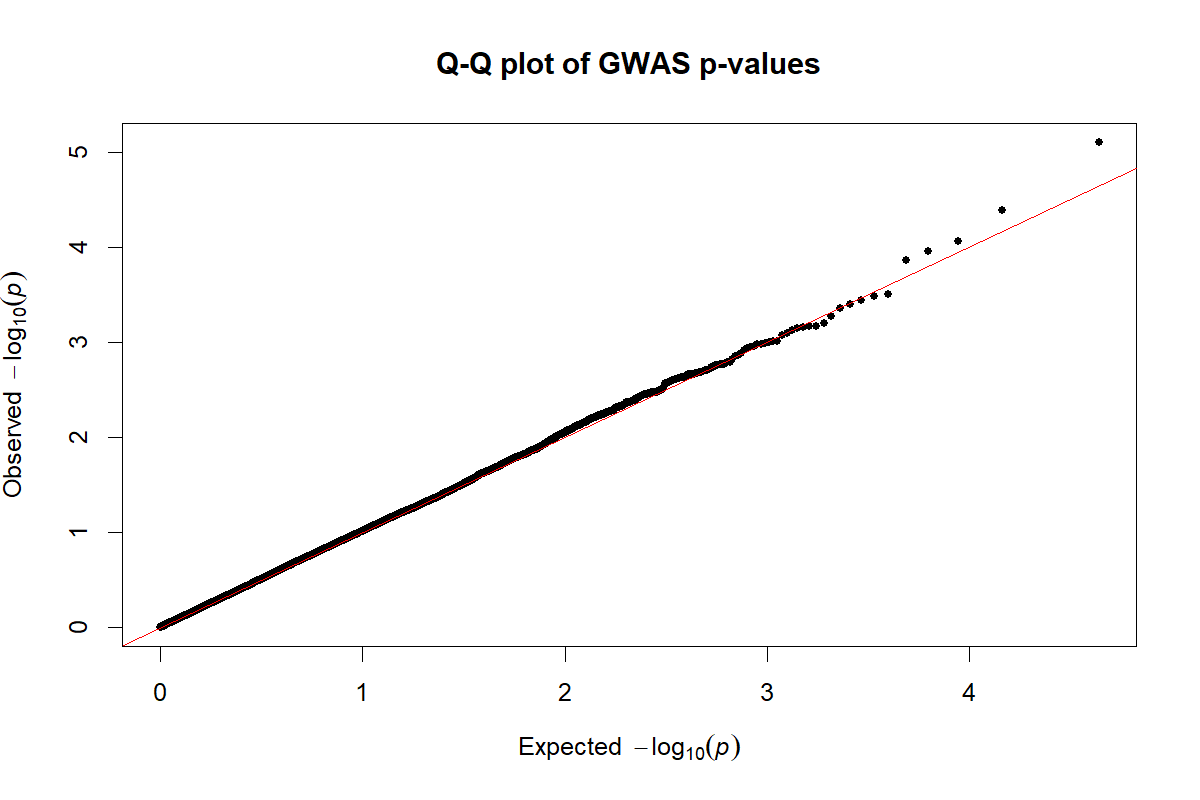
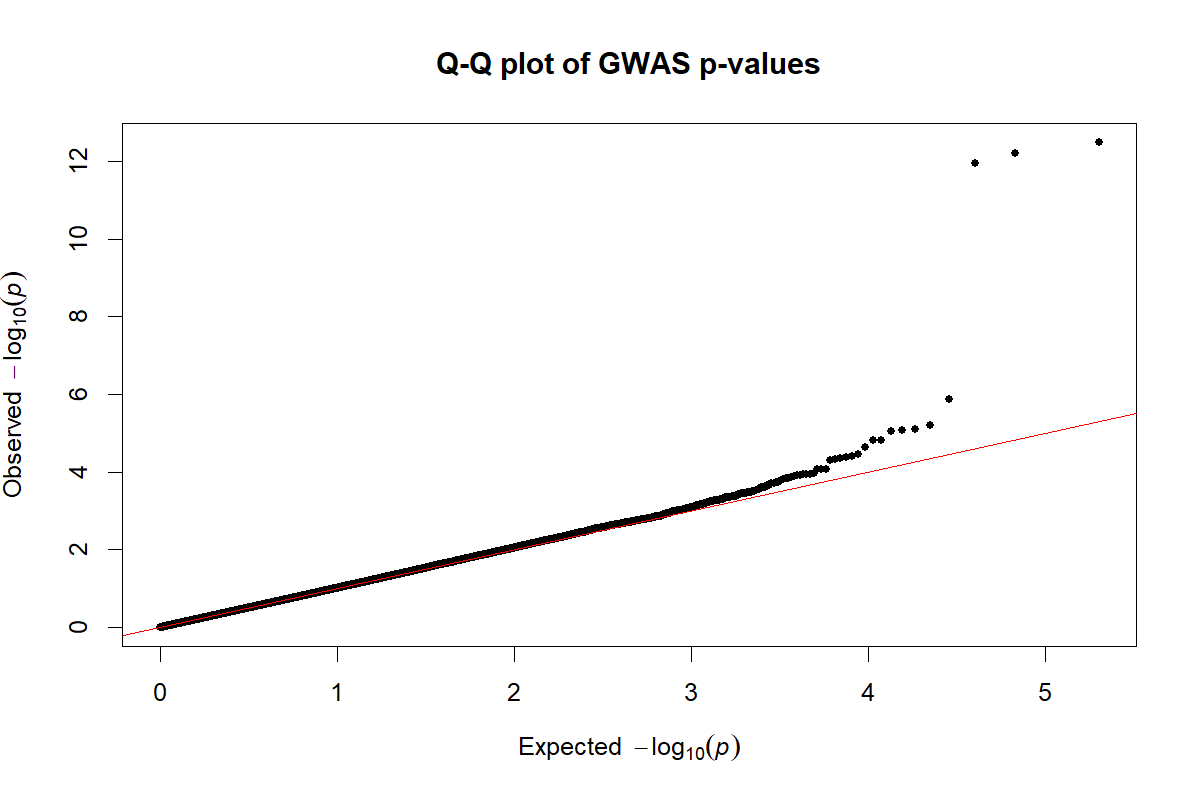
Updated *.qmd and *.html to accommodate the proper PLINK files for the GWAS analysis

diff --git a/02_activities/assignments/assignment_2.html b/02_activities/assignments/assignment_2.html
@@ -134,7 +134,7 @@ Options in effect:
   --mind 0.1
   --out ./02_activities/data/gwa.qc.A2
 
-Start time: Tue Mar 31 15:42:57 2026
+Start time: Wed Apr 01 21:31:01 2026
 15897 MiB RAM detected; reserving 7948 MiB for main workspace.
 Using up to 14 threads (change this with --threads).
 4000 samples (2000 females, 2000 males; 4000 founders) loaded from
@@ -155,7 +155,7 @@ Calculating allele frequencies... 0%21%42%64%85%done.
 Writing ./02_activities/data/gwa.qc.A2.fam ... done.
 Writing ./02_activities/data/gwa.qc.A2.bim ... done.
 Writing ./02_activities/data/gwa.qc.A2.bed ... 0%21%43%65%87%done.
-End time: Tue Mar 31 15:42:58 2026</code></pre>
+End time: Wed Apr 01 21:31:02 2026</code></pre>
 </div>
 </div>
 </section>
@@ -177,7 +177,7 @@ Options in effect:
   --indep-pairwise 500 50 0.05
   --out ./02_activities/data/gwa.qc.A2
 
-Start time: Tue Mar 31 15:42:58 2026
+Start time: Wed Apr 01 21:31:02 2026
 15897 MiB RAM detected; reserving 7948 MiB for main workspace.
 Using up to 14 threads (change this with --threads).
 4000 samples (2000 females, 2000 males; 4000 founders) loaded from
@@ -189,7 +189,7 @@ Calculating allele frequencies... 0%64%done.
 Writing...
 Variant lists written to ./02_activities/data/gwa.qc.A2.prune.in and
 ./02_activities/data/gwa.qc.A2.prune.out .
-End time: Tue Mar 31 15:42:59 2026</code></pre>
+End time: Wed Apr 01 21:31:03 2026</code></pre>
 </div>
 </div>
 <p>#Keep only SNPs that pass QC</p>
@@ -205,7 +205,7 @@ Options in effect:
   --make-bed
   --out ./02_activities/data/gwa.qc.A2_pruned
 
-Start time: Tue Mar 31 15:42:59 2026
+Start time: Wed Apr 01 21:31:03 2026
 15897 MiB RAM detected; reserving 7948 MiB for main workspace.
 Using up to 14 threads (change this with --threads).
 4000 samples (2000 females, 2000 males; 4000 founders) loaded from
@@ -217,7 +217,7 @@ Using up to 14 threads (change this with --threads).
 Writing ./02_activities/data/gwa.qc.A2_pruned.fam ... done.
 Writing ./02_activities/data/gwa.qc.A2_pruned.bim ... done.
 Writing ./02_activities/data/gwa.qc.A2_pruned.bed ... 0%61%done.
-End time: Tue Mar 31 15:42:59 2026</code></pre>
+End time: Wed Apr 01 21:31:04 2026</code></pre>
 </div>
 </div>
 <ol start="2" type="i">
@@ -235,7 +235,7 @@ Options in effect:
   --king-cutoff 0.0884
   --out ./02_activities/data/gwa.qc.A2_pruned
 
-Start time: Tue Mar 31 15:43:00 2026
+Start time: Wed Apr 01 21:31:04 2026
 15897 MiB RAM detected; reserving 7948 MiB for main workspace.
 Using up to 14 threads (change this with --threads).
 4000 samples (2000 females, 2000 males; 4000 founders) loaded from
@@ -265,30 +265,30 @@ Using up to 14 threads (change this with --threads).
 --king-cutoff: Excluded sample IDs written to
 ./02_activities/data/gwa.qc.A2_pruned.king.cutoff.out.id , and 4000 remaining
 sample IDs written to ./02_activities/data/gwa.qc.A2_pruned.king.cutoff.in.id .
-End time: Tue Mar 31 15:43:01 2026</code></pre>
+End time: Wed Apr 01 21:31:06 2026</code></pre>
 </div>
 </div>
 <ol start="3" type="i">
 <li>Using the unrelated individual list from part (ii), create a dataset containing only unrelated individuals and name it <code>gwa.qc_unrelated.A2</code>.</li>
 </ol>
 <div class="cell">
-<div class="code-copy-outer-scaffold"><div class="sourceCode cell-code" id="cb12"><pre class="sourceCode bash code-with-copy"><code class="sourceCode bash"><span id="cb12-1"><a href="#cb12-1" aria-hidden="true" tabindex="-1"></a><span class="ex">plink2</span> <span class="at">--bfile</span> ./02_activities/data/gwa.qc.A2_pruned <span class="at">--keep</span> ./02_activities/data/gwa.qc.A2_pruned.king.cutoff.in.id <span class="at">--make-bed</span> <span class="at">--out</span> ./02_activities/data/gwa.qc_unrelated.A2</span></code></pre></div><button title="Copy to Clipboard" class="code-copy-button"><i class="bi"></i></button></div>
+<div class="code-copy-outer-scaffold"><div class="sourceCode cell-code" id="cb12"><pre class="sourceCode bash code-with-copy"><code class="sourceCode bash"><span id="cb12-1"><a href="#cb12-1" aria-hidden="true" tabindex="-1"></a><span class="ex">plink2</span> <span class="at">--bfile</span> ./02_activities/data/gwa.qc.A2 <span class="at">--keep</span> ./02_activities/data/gwa.qc.A2_pruned.king.cutoff.in.id <span class="at">--make-bed</span> <span class="at">--out</span> ./02_activities/data/gwa.qc_unrelated.A2</span></code></pre></div><button title="Copy to Clipboard" class="code-copy-button"><i class="bi"></i></button></div>
 <div class="cell-output cell-output-stdout">
 <pre><code>PLINK v2.0.0-a.7 64-bit (11 Mar 2026)               cog-genomics.org/plink/2.0/
 (C) 2005-2026 Shaun Purcell, Christopher Chang    GNU General Public License v3
 Logging to ./02_activities/data/gwa.qc_unrelated.A2.log.
 Options in effect:
-  --bfile ./02_activities/data/gwa.qc.A2_pruned
+  --bfile ./02_activities/data/gwa.qc.A2
   --keep ./02_activities/data/gwa.qc.A2_pruned.king.cutoff.in.id
   --make-bed
   --out ./02_activities/data/gwa.qc_unrelated.A2
 
-Start time: Tue Mar 31 15:43:01 2026
+Start time: Wed Apr 01 21:31:06 2026
 15897 MiB RAM detected; reserving 7948 MiB for main workspace.
 Using up to 14 threads (change this with --threads).
 4000 samples (2000 females, 2000 males; 4000 founders) loaded from
-./02_activities/data/gwa.qc.A2_pruned.fam.
-21914 variants loaded from ./02_activities/data/gwa.qc.A2_pruned.bim.
+./02_activities/data/gwa.qc.A2.fam.
+101083 variants loaded from ./02_activities/data/gwa.qc.A2.bim.
 1 quantitative phenotype loaded (4000 values).
 --keep: 4000 samples remaining.
 4000 samples (2000 females, 2000 males; 4000 founders) remaining after main
@@ -296,8 +296,8 @@ filters.
 4000 quantitative phenotype values remaining after main filters.
 Writing ./02_activities/data/gwa.qc_unrelated.A2.fam ... done.
 Writing ./02_activities/data/gwa.qc_unrelated.A2.bim ... done.
-Writing ./02_activities/data/gwa.qc_unrelated.A2.bed ... 0%done.
-End time: Tue Mar 31 15:43:02 2026</code></pre>
+Writing ./02_activities/data/gwa.qc_unrelated.A2.bed ... 0%64%done.
+End time: Wed Apr 01 21:31:06 2026</code></pre>
 </div>
 </div>
 </section>
@@ -320,19 +320,19 @@ Options in effect:
   --make-bed
   --out ./02_activities/data/gwa.qc_unrelated.A2_pruned
 
-Start time: Tue Mar 31 15:43:02 2026
+Start time: Wed Apr 01 21:31:07 2026
 15897 MiB RAM detected; reserving 7948 MiB for main workspace.
 Using up to 14 threads (change this with --threads).
 4000 samples (2000 females, 2000 males; 4000 founders) loaded from
 ./02_activities/data/gwa.qc_unrelated.A2.fam.
-21914 variants loaded from ./02_activities/data/gwa.qc_unrelated.A2.bim.
+101083 variants loaded from ./02_activities/data/gwa.qc_unrelated.A2.bim.
 1 quantitative phenotype loaded (4000 values).
 --extract: 21914 variants remaining.
 21914 variants remaining after main filters.
 Writing ./02_activities/data/gwa.qc_unrelated.A2_pruned.fam ... done.
 Writing ./02_activities/data/gwa.qc_unrelated.A2_pruned.bim ... done.
-Writing ./02_activities/data/gwa.qc_unrelated.A2_pruned.bed ... 0%done.
-End time: Tue Mar 31 15:43:02 2026</code></pre>
+Writing ./02_activities/data/gwa.qc_unrelated.A2_pruned.bed ... 0%61%done.
+End time: Wed Apr 01 21:31:07 2026</code></pre>
 </div>
 </div>
 <p>#Run PCA</p>
@@ -347,7 +347,7 @@ Options in effect:
   --out ./02_activities/data/gwa.qc.A2_unrel_PCA
   --pca 20
 
-Start time: Tue Mar 31 15:43:03 2026
+Start time: Wed Apr 01 21:31:08 2026
 15897 MiB RAM detected; reserving 7948 MiB for main workspace.
 Using up to 14 threads (change this with --threads).
 4000 samples (2000 females, 2000 males; 4000 founders) loaded from
@@ -361,7 +361,7 @@ Extracting eigenvalues and eigenvectors... done.
 --pca: Eigenvectors written to
 ./02_activities/data/gwa.qc.A2_unrel_PCA.eigenvec , and eigenvalues written to
 ./02_activities/data/gwa.qc.A2_unrel_PCA.eigenval .
-End time: Tue Mar 31 15:43:18 2026</code></pre>
+End time: Wed Apr 01 21:31:20 2026</code></pre>
 </div>
 </div>
 </section>
@@ -392,21 +392,21 @@ Options in effect:
   --glm
   --out ./02_activities/data/gwa.qc.A2_assoc
 
-Start time: Tue Mar 31 15:43:19 2026
+Start time: Wed Apr 01 21:31:21 2026
 15897 MiB RAM detected; reserving 7948 MiB for main workspace.
 Using up to 14 threads (change this with --threads).
 4000 samples (2000 females, 2000 males; 4000 founders) loaded from
 ./02_activities/data/gwa.qc_unrelated.A2.fam.
-21914 variants loaded from ./02_activities/data/gwa.qc_unrelated.A2.bim.
+101083 variants loaded from ./02_activities/data/gwa.qc_unrelated.A2.bim.
 1 quantitative phenotype loaded (4000 values).
 3 covariates loaded from ./02_activities/data/gwa.qc.A2_unrel_PCA.eigenvec.
-Calculating allele frequencies... 0%done.
---glm linear regression on phenotype 'PHENO1': 0%done.
+Calculating allele frequencies... 0%64%done.
+--glm linear regression on phenotype 'PHENO1': 0%64%done.
 Results written to ./02_activities/data/gwa.qc.A2_assoc.PHENO1.glm.linear .
---adjust: Genomic inflation est. lambda (based on median chisq) = 1.02081.
---adjust values (21914 tests) written to
+--adjust: Genomic inflation est. lambda (based on median chisq) = 1.01779.
+--adjust values (101083 tests) written to
 ./02_activities/data/gwa.qc.A2_assoc.PHENO1.glm.linear.adjusted .
-End time: Tue Mar 31 15:43:20 2026</code></pre>
+End time: Wed Apr 01 21:31:24 2026</code></pre>
 </div>
 </div>
 <ol start="2" type="i">
@@ -423,16 +423,19 @@ End time: Tue Mar 31 15:43:20 2026</code></pre>
 <span id="cb20-7"><a href="#cb20-7" aria-hidden="true" tabindex="-1"></a><span class="fu">colnames</span>(assoc_add) <span class="ot">=</span> <span class="fu">c</span>(<span class="st">"CHROM"</span>, <span class="st">"POS"</span>, <span class="st">"ID"</span>, <span class="st">"REF"</span>, <span class="st">"ALT"</span>, <span class="st">"PROVISIONAL_REF?"</span>, <span class="st">"A1"</span>, <span class="st">"OMITTED"</span>, <span class="st">"A1_FREQ"</span>, <span class="st">"TEST"</span>, <span class="st">"OBS_CT"</span>, <span class="st">"BETA"</span>, <span class="st">"SE"</span>, <span class="st">"L95"</span>, <span class="st">"U95"</span>, <span class="st">"T_STAT"</span>, <span class="st">"P"</span>, <span class="st">"ERRCODE"</span>)</span>
 <span id="cb20-8"><a href="#cb20-8" aria-hidden="true" tabindex="-1"></a></span>
 <span id="cb20-9"><a href="#cb20-9" aria-hidden="true" tabindex="-1"></a><span class="co"># Manhattan plot</span></span>
-<span id="cb20-10"><a href="#cb20-10" aria-hidden="true" tabindex="-1"></a><span class="fu">manhattan</span>(assoc_add,</span>
-<span id="cb20-11"><a href="#cb20-11" aria-hidden="true" tabindex="-1"></a>          <span class="at">chr =</span> <span class="st">"CHROM"</span>,</span>
-<span id="cb20-12"><a href="#cb20-12" aria-hidden="true" tabindex="-1"></a>          <span class="at">bp  =</span> <span class="st">"POS"</span>,</span>
-<span id="cb20-13"><a href="#cb20-13" aria-hidden="true" tabindex="-1"></a>          <span class="at">snp =</span> <span class="st">"ID"</span>,</span>
-<span id="cb20-14"><a href="#cb20-14" aria-hidden="true" tabindex="-1"></a>          <span class="at">p   =</span> <span class="st">"P"</span>,</span>
-<span id="cb20-15"><a href="#cb20-15" aria-hidden="true" tabindex="-1"></a>          <span class="at">xlab =</span> <span class="st">"Chromosome"</span>,</span>
-<span id="cb20-16"><a href="#cb20-16" aria-hidden="true" tabindex="-1"></a>          <span class="at">ylab =</span> <span class="st">"-log10p"</span>,</span>
-<span id="cb20-17"><a href="#cb20-17" aria-hidden="true" tabindex="-1"></a>          <span class="at">suggestiveline =</span> <span class="cn">FALSE</span>,</span>
-<span id="cb20-18"><a href="#cb20-18" aria-hidden="true" tabindex="-1"></a>          <span class="at">cex.axis =</span> <span class="fl">1.5</span>,</span>
-<span id="cb20-19"><a href="#cb20-19" aria-hidden="true" tabindex="-1"></a>          <span class="at">col =</span> <span class="fu">c</span>(<span class="st">"blue"</span>, <span class="st">"orange"</span>))</span></code></pre></div><button title="Copy to Clipboard" class="code-copy-button"><i class="bi"></i></button></div>
+<span id="cb20-10"><a href="#cb20-10" aria-hidden="true" tabindex="-1"></a>sig_snps <span class="ot">=</span> assoc_add<span class="sc">$</span>ID[assoc_add<span class="sc">$</span>P <span class="sc">&lt;</span> <span class="fl">5e-8</span>]</span>
+<span id="cb20-11"><a href="#cb20-11" aria-hidden="true" tabindex="-1"></a><span class="fu">manhattan</span>(assoc_add,</span>
+<span id="cb20-12"><a href="#cb20-12" aria-hidden="true" tabindex="-1"></a>          <span class="at">chr =</span> <span class="st">"CHROM"</span>,</span>
+<span id="cb20-13"><a href="#cb20-13" aria-hidden="true" tabindex="-1"></a>          <span class="at">bp  =</span> <span class="st">"POS"</span>,</span>
+<span id="cb20-14"><a href="#cb20-14" aria-hidden="true" tabindex="-1"></a>          <span class="at">snp =</span> <span class="st">"ID"</span>,</span>
+<span id="cb20-15"><a href="#cb20-15" aria-hidden="true" tabindex="-1"></a>          <span class="at">p   =</span> <span class="st">"P"</span>,</span>
+<span id="cb20-16"><a href="#cb20-16" aria-hidden="true" tabindex="-1"></a>          <span class="at">xlab =</span> <span class="st">"Chromosome"</span>,</span>
+<span id="cb20-17"><a href="#cb20-17" aria-hidden="true" tabindex="-1"></a>          <span class="at">ylab =</span> <span class="st">"-log10p"</span>,</span>
+<span id="cb20-18"><a href="#cb20-18" aria-hidden="true" tabindex="-1"></a>          <span class="at">suggestiveline =</span> <span class="cn">FALSE</span>,</span>
+<span id="cb20-19"><a href="#cb20-19" aria-hidden="true" tabindex="-1"></a>          <span class="at">cex.axis =</span> <span class="fl">1.5</span>,</span>
+<span id="cb20-20"><a href="#cb20-20" aria-hidden="true" tabindex="-1"></a>          <span class="at">col =</span> <span class="fu">c</span>(<span class="st">"blue"</span>, <span class="st">"orange"</span>), </span>
+<span id="cb20-21"><a href="#cb20-21" aria-hidden="true" tabindex="-1"></a>          <span class="at">annotatePval =</span> <span class="fl">5e-8</span>,</span>
+<span id="cb20-22"><a href="#cb20-22" aria-hidden="true" tabindex="-1"></a>          <span class="at">highlight =</span> sig_snps)</span></code></pre></div><button title="Copy to Clipboard" class="code-copy-button"><i class="bi"></i></button></div>
 <div class="cell-output-display">
 <div>
 <figure class="figure">
